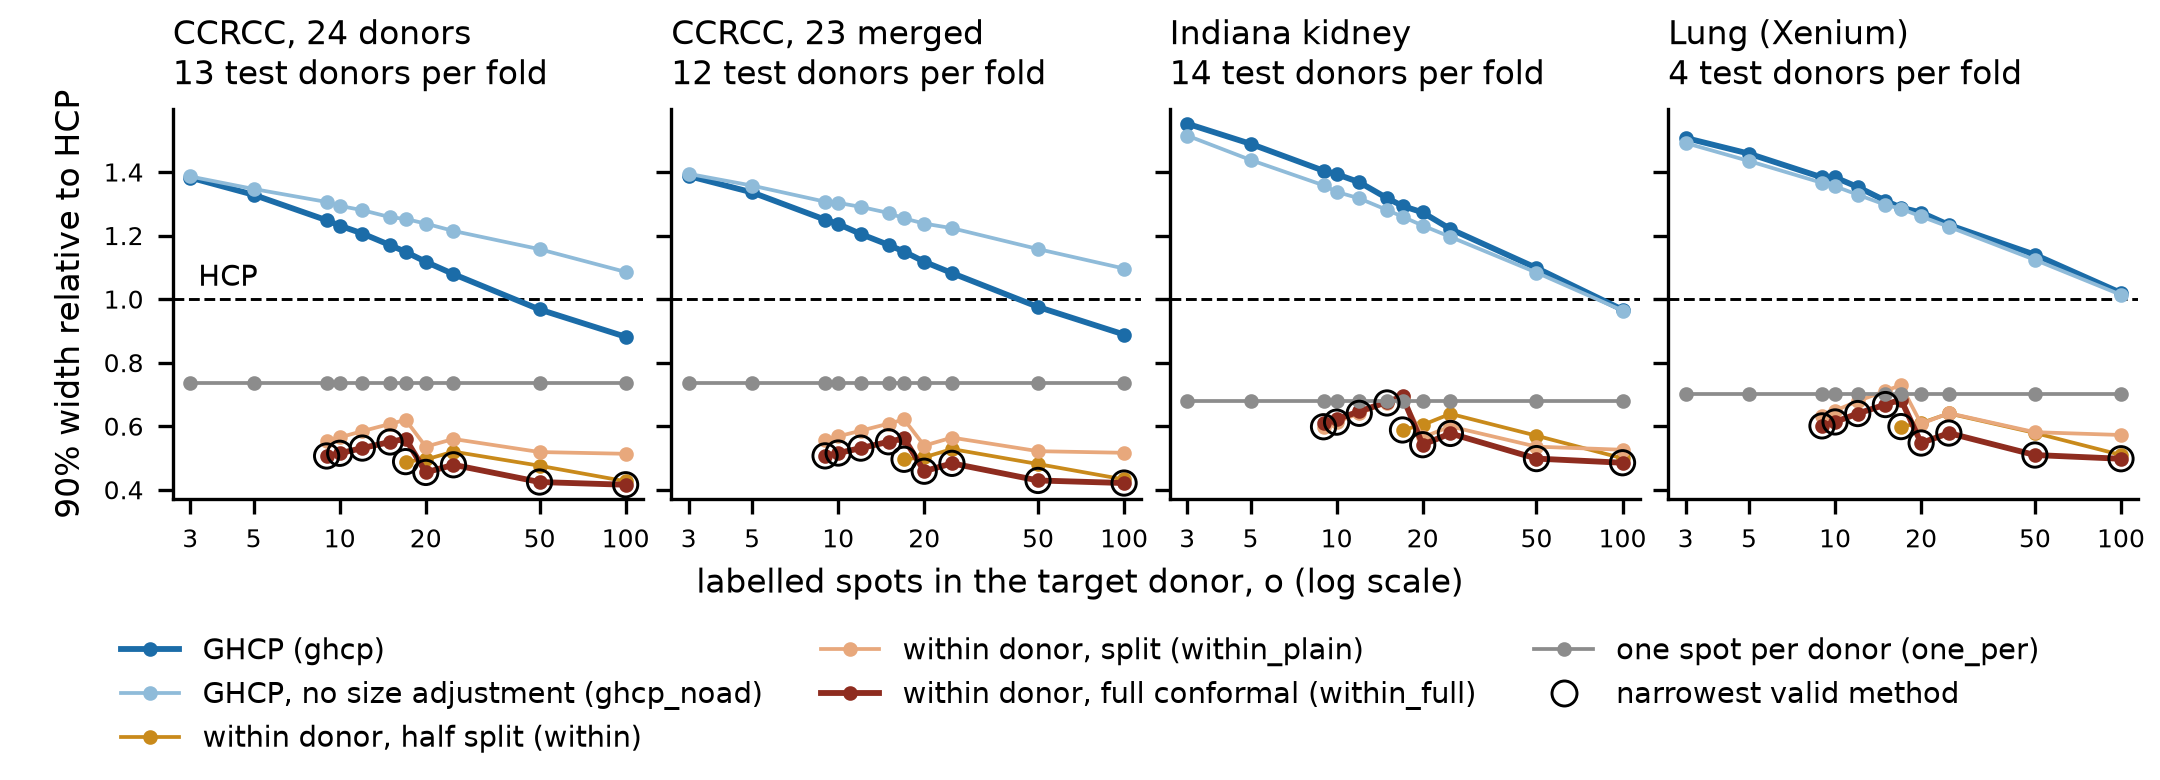
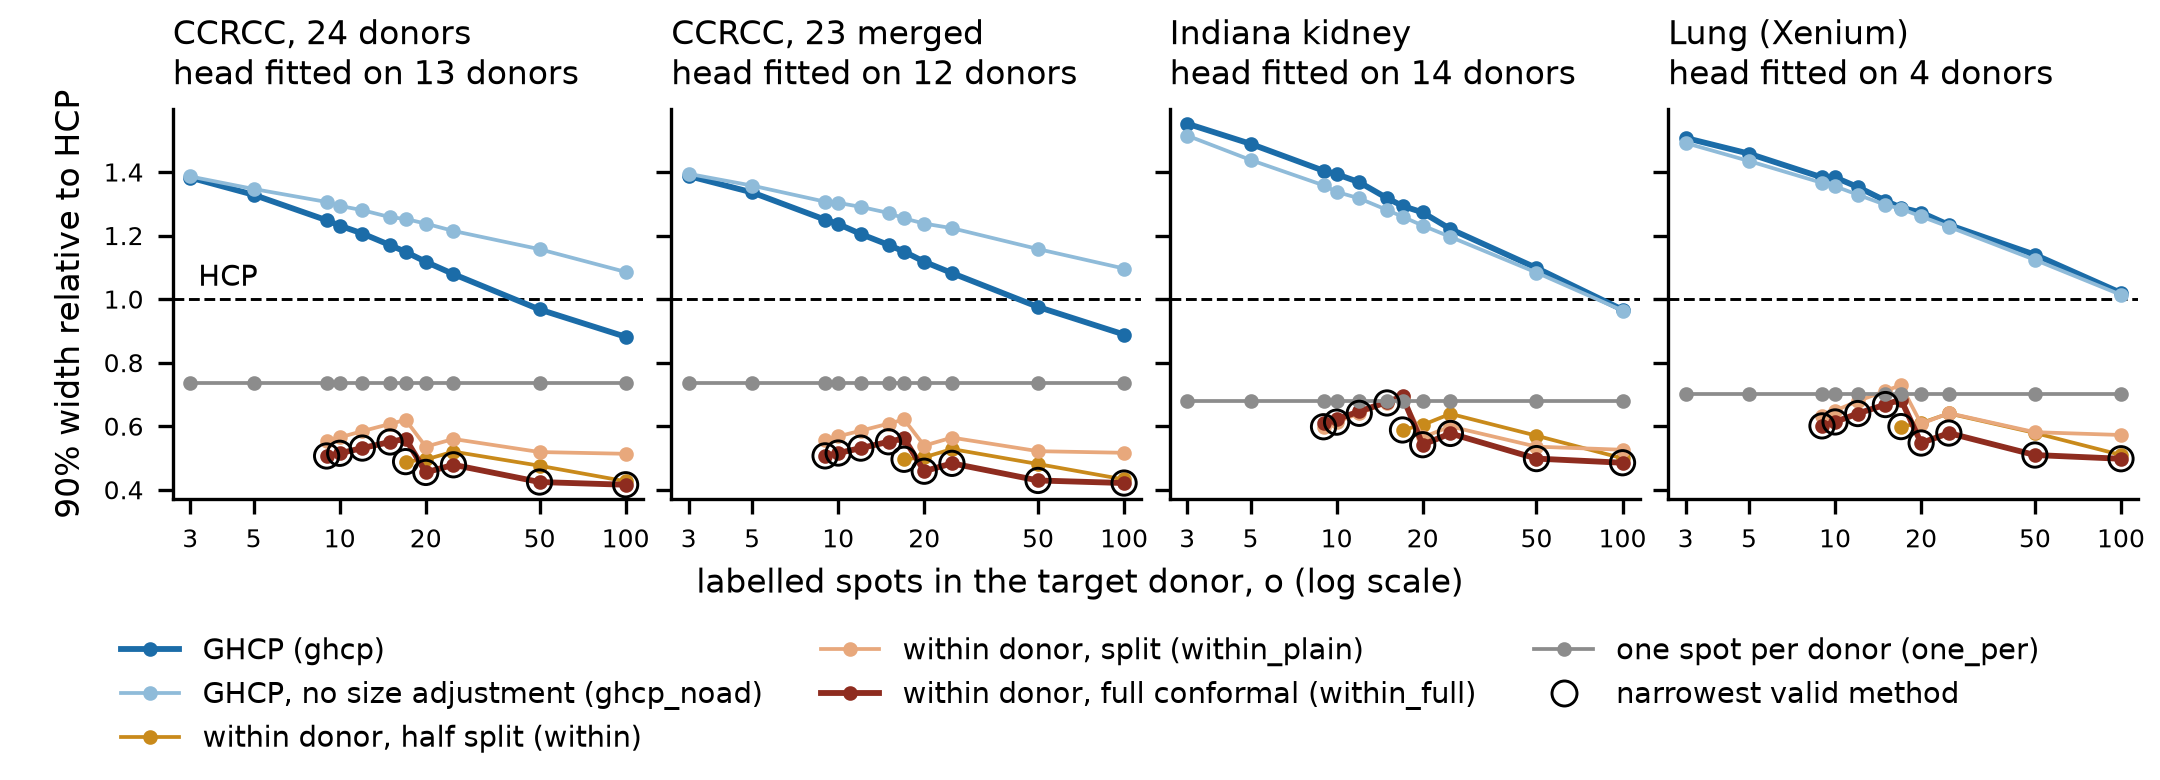
W3 map figure: panel titles give the number of donors the head is fitted on (n_T_donors), not test donors

diff --git a/code/scripts/round5_conf_w3_report.py b/code/scripts/round5_conf_w3_report.py
@@ -206,7 +206,7 @@ def fig_map(M, path):
         ax.set_xscale("log")
         ax.set_xticks([3, 5, 10, 20, 50, 100]); ax.set_xticklabels(["3", "5", "10", "20", "50", "100"])
         ax.minorticks_off()
-        ax.set_title(f"{SHORT.get(t, t)}\n{P.n_T_donors.median():.0f} test donors per fold")
+        ax.set_title(f"{SHORT.get(t, t)}\nhead fitted on {P.n_T_donors.median():.0f} donors")
         ax.margins(0.04)
     axes[0][0].set_ylabel("90% width relative to HCP")
     axes[0][0].text(3.2, 1.02, "HCP", fontsize=7, va="bottom")
